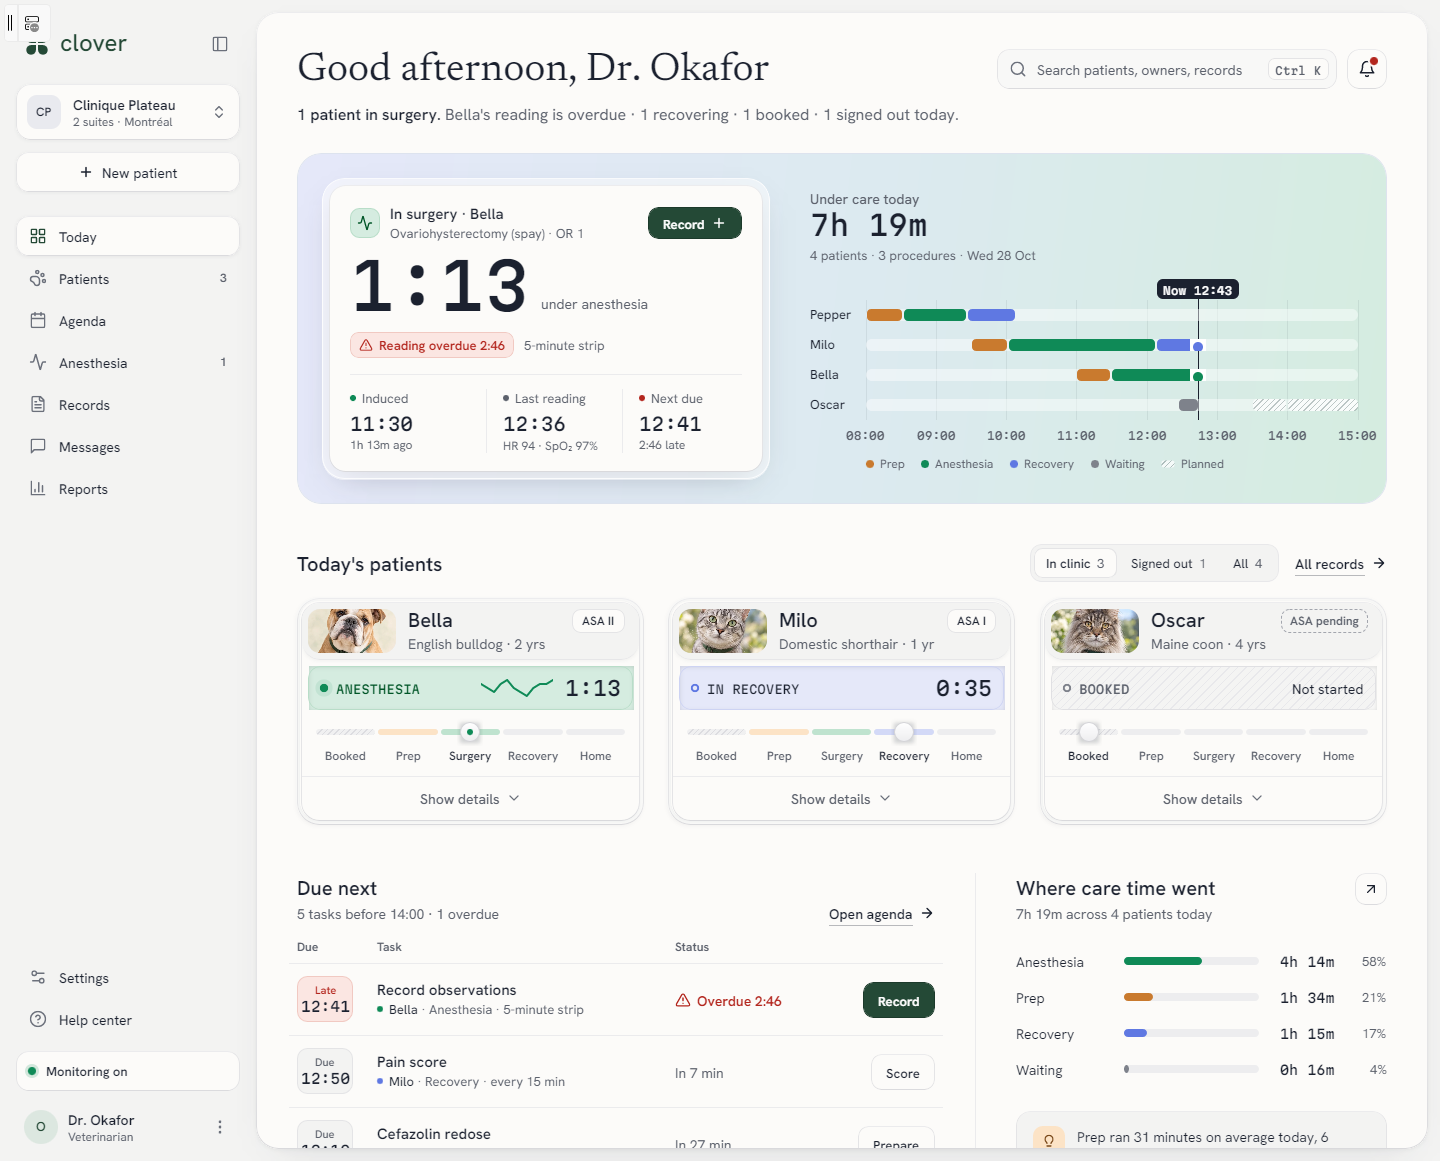
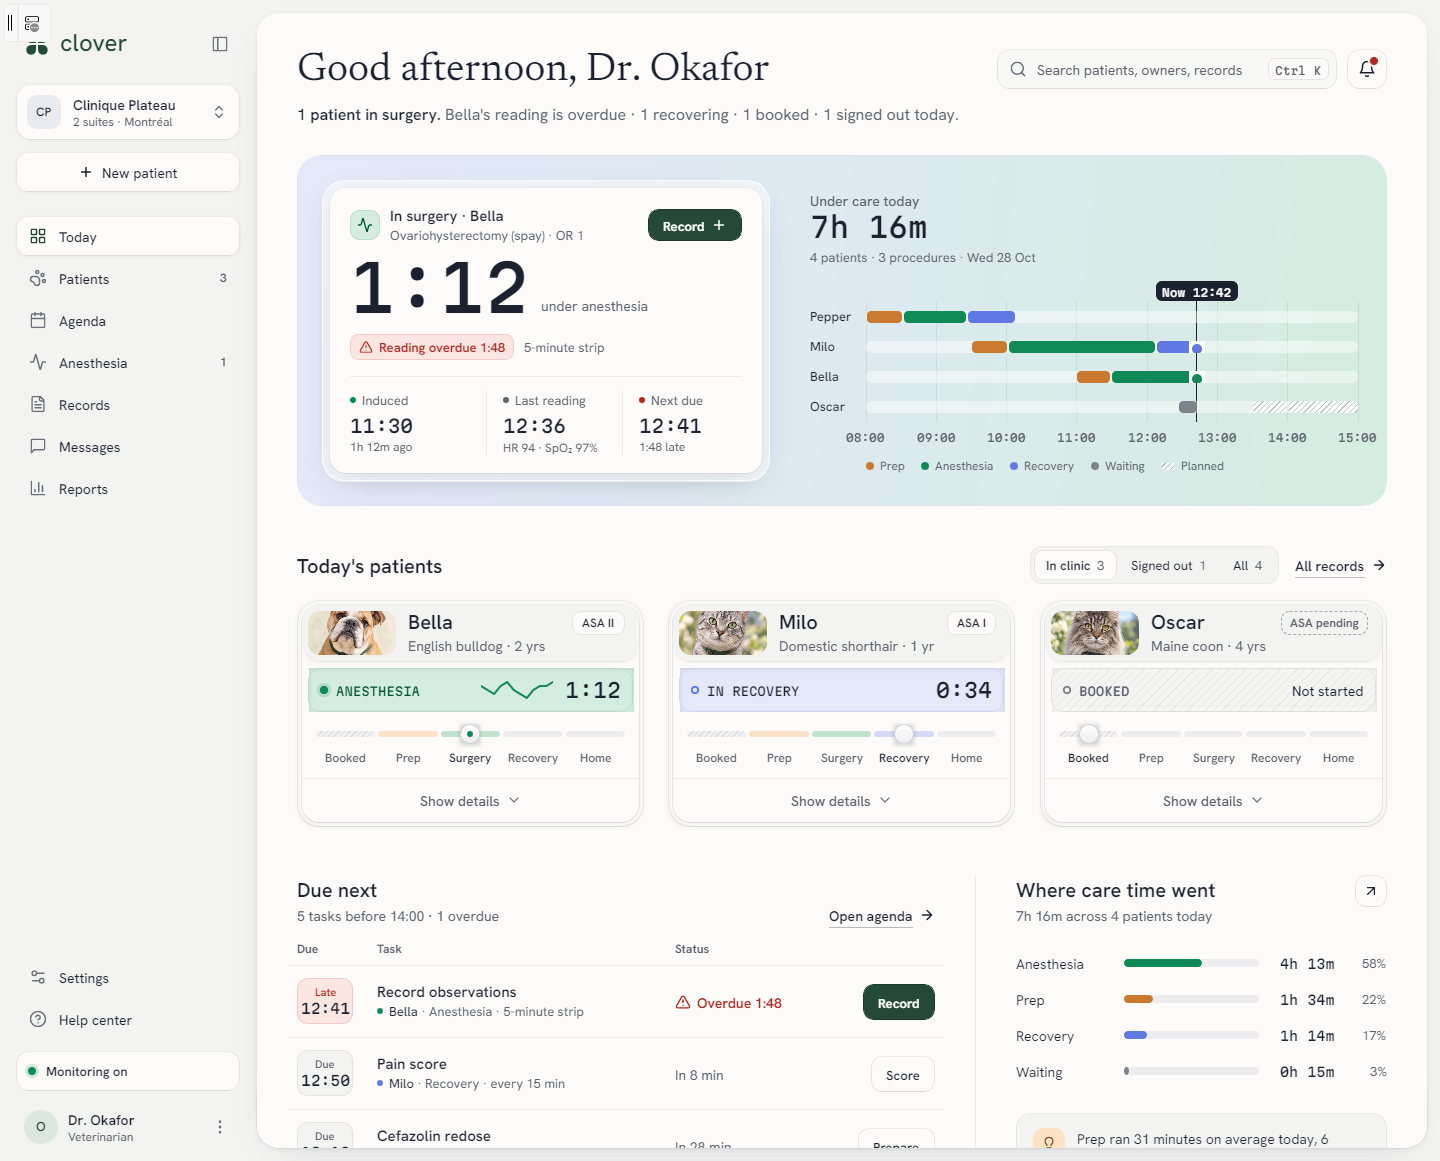
test: Today state evidence and verification hooks
- --vigil-seed=next (sample day without the case in surgery) and --vigil-fault=store-read-xN
  (the shell and the page each read the store at launch)
- Captures: 1440 light and dark, 1000, 700, next surgery, loading skeleton, error, after Retry, empty

Claude-Session: https://claude.ai/code/session_018xTsJMfCEn5kEHHZoZoMpa

diff --git a/Vigil/App.xaml.cs b/Vigil/App.xaml.cs
@@ -155,7 +155,7 @@ public partial class App : Application
         timer.Start();
     }
 
-    /// <summary>Verification hook: <c>--vigil-seed=sample</c> loads the sample day, <c>--vigil-seed=empty</c> clears the store.</summary>
+    /// <summary>Verification hook: <c>--vigil-seed=sample</c> loads the sample day, <c>--vigil-seed=empty</c> clears the store, <c>--vigil-seed=next</c> loads it without the case in surgery.</summary>
     private static async Task SeedForVerificationAsync(IServiceProvider services)
     {
         var seed = Environment.GetCommandLineArgs()
@@ -163,7 +163,7 @@ public partial class App : Application
         if (Environment.GetCommandLineArgs().Contains("--clover-preview"))
         {
             // The design preview reproduces the prototype: sample day, Dr. Okafor (preview data folder only).
-            seed = "sample";
+            seed ??= "sample";
             var prefs = services.GetRequiredService<IPreferences>();
             if (string.IsNullOrWhiteSpace(prefs.ClinicianName))
             {
@@ -177,9 +177,10 @@ public partial class App : Application
         var store = services.GetRequiredService<ICaseStore>();
         var clock = services.GetRequiredService<IClock>();
         await store.ClearAsync(CancellationToken.None);
-        if (seed == "sample")
+        if (seed is "sample" or "next")
         {
-            foreach (var c in SampleDay.Create(clock.Now))
+            // "next": the sample day without the case in surgery, for the hero's "Next surgery" state.
+            foreach (var c in SampleDay.Create(clock.Now).Where(c => seed == "sample" || c.Status != CaseStatus.Anesthetized))
             {
                 await store.SaveAsync(c, CancellationToken.None);
             }

diff --git a/Vigil/Services/FaultInjection.cs b/Vigil/Services/FaultInjection.cs
@@ -9,7 +9,7 @@ public interface IFaultInjection
 {
     int SlowMs { get; }
 
-    /// <summary>True once for <c>store-read-once</c>, always for <c>store-read</c>.</summary>
+    /// <summary>True once for <c>store-read-once</c>, for the first N reads with <c>store-read-xN</c>, always for <c>store-read</c>.</summary>
     bool ConsumeReadFault();
 
     bool WriteFault { get; }
@@ -45,6 +45,12 @@ public sealed class FaultInjection : IFaultInjection
         if (_fault.Contains("store-read-once", StringComparison.OrdinalIgnoreCase))
         {
             return Interlocked.Increment(ref _readFaults) == 1;
+        }
+        // store-read-xN: the shell and the page each read the store at launch, so a single failure only reaches one of them.
+        var times = System.Text.RegularExpressions.Regex.Match(_fault, @"store-read-x(\d+)", System.Text.RegularExpressions.RegexOptions.IgnoreCase);
+        if (times.Success)
+        {
+            return Interlocked.Increment(ref _readFaults) <= int.Parse(times.Groups[1].Value, System.Globalization.CultureInfo.InvariantCulture);
         }
         return _fault.Equals("store-read", StringComparison.OrdinalIgnoreCase);
     }
